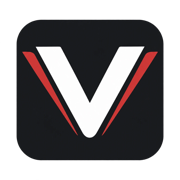
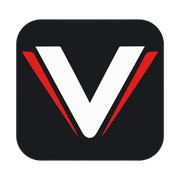
feat(marque): le logotype adopte le rouge franc de la charte
Le logotype portait #a52d26 et l'icône carrée #cd3736 — deux rouges qui ne
s'accordaient ni entre eux ni avec le nouveau #e11d1d de la charte, à dix
pixels du bouton de recherche dans l'en-tête.

Les cinq fichiers sont recolorés depuis les originaux archivés dans
`design/marque/`, qui ne sont pas touchés : mot-symbole clair et sombre,
icône, favicon 512 px et icône iOS 180 px.

Chaque fichier est normalisé sur SON propre rouge dominant plutôt que sur une
valeur commune : les bords adoucis gardent leur dégradé, au lieu d'être
écrasés d'un bloc. Le détourage au cadre commun est réappliqué après coup,
la recoloration repartant des originaux pleine marge.

**Le suffixe `-v2` des fichiers servis n'est pas cosmétique.** Next met en
cache les images optimisées par URL : recolorer sans renommer laisse le cache
du serveur ET les visiteurs déjà venus sur l'ancienne version. Le cas s'est
produit pendant ce changement — le disque était à jour, l'écran rendait
encore #a42c25. Renommer force la reprise. Les icônes de `src/app/` n'en ont
pas besoin, la convention Next leur ajoutant déjà une empreinte de contenu.

Vérifié dans le navigateur, en relisant les pixels rendus : le logotype donne
#e11c1c et le bouton #e11d1d — un point d'écart, dû à la compression WebP à
qualité 92.

diff --git a/src/components/brand/Logo.tsx b/src/components/brand/Logo.tsx
@@ -47,7 +47,7 @@ export function Logo({
   className?: string
   href?: string | null
 }) {
-  const fichier = tone === 'dark' ? 'ledvroom-fond-sombre' : 'ledvroom'
+  const fichier = tone === 'dark' ? 'ledvroom-fond-sombre-v2' : 'ledvroom-v2'
 
   const content = (
     <Image
@@ -84,7 +84,7 @@ export function Logo({
 export function LogoMark({ size = 32, className }: { size?: number; className?: string }) {
   return (
     <Image
-      src="/marque/icone.webp"
+      src="/marque/icone-v2.webp"
       alt=""
       width={size}
       height={size}
